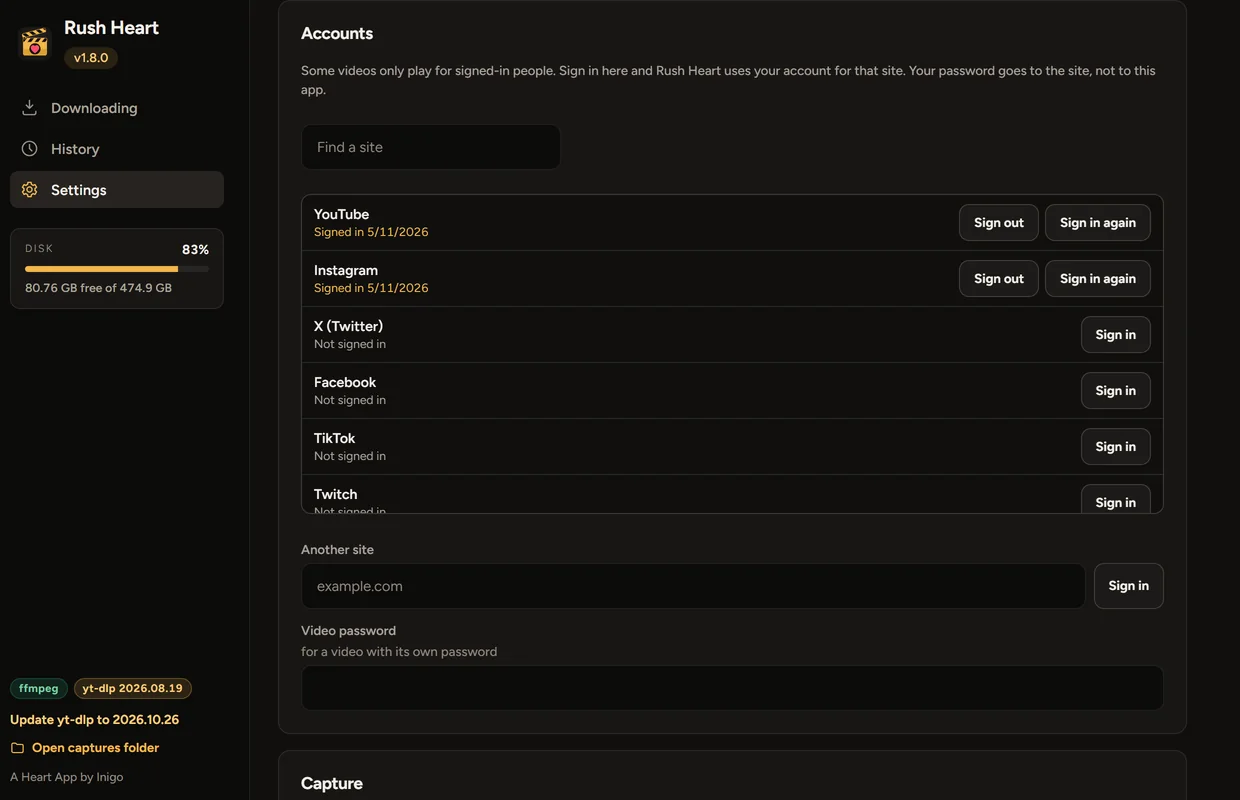
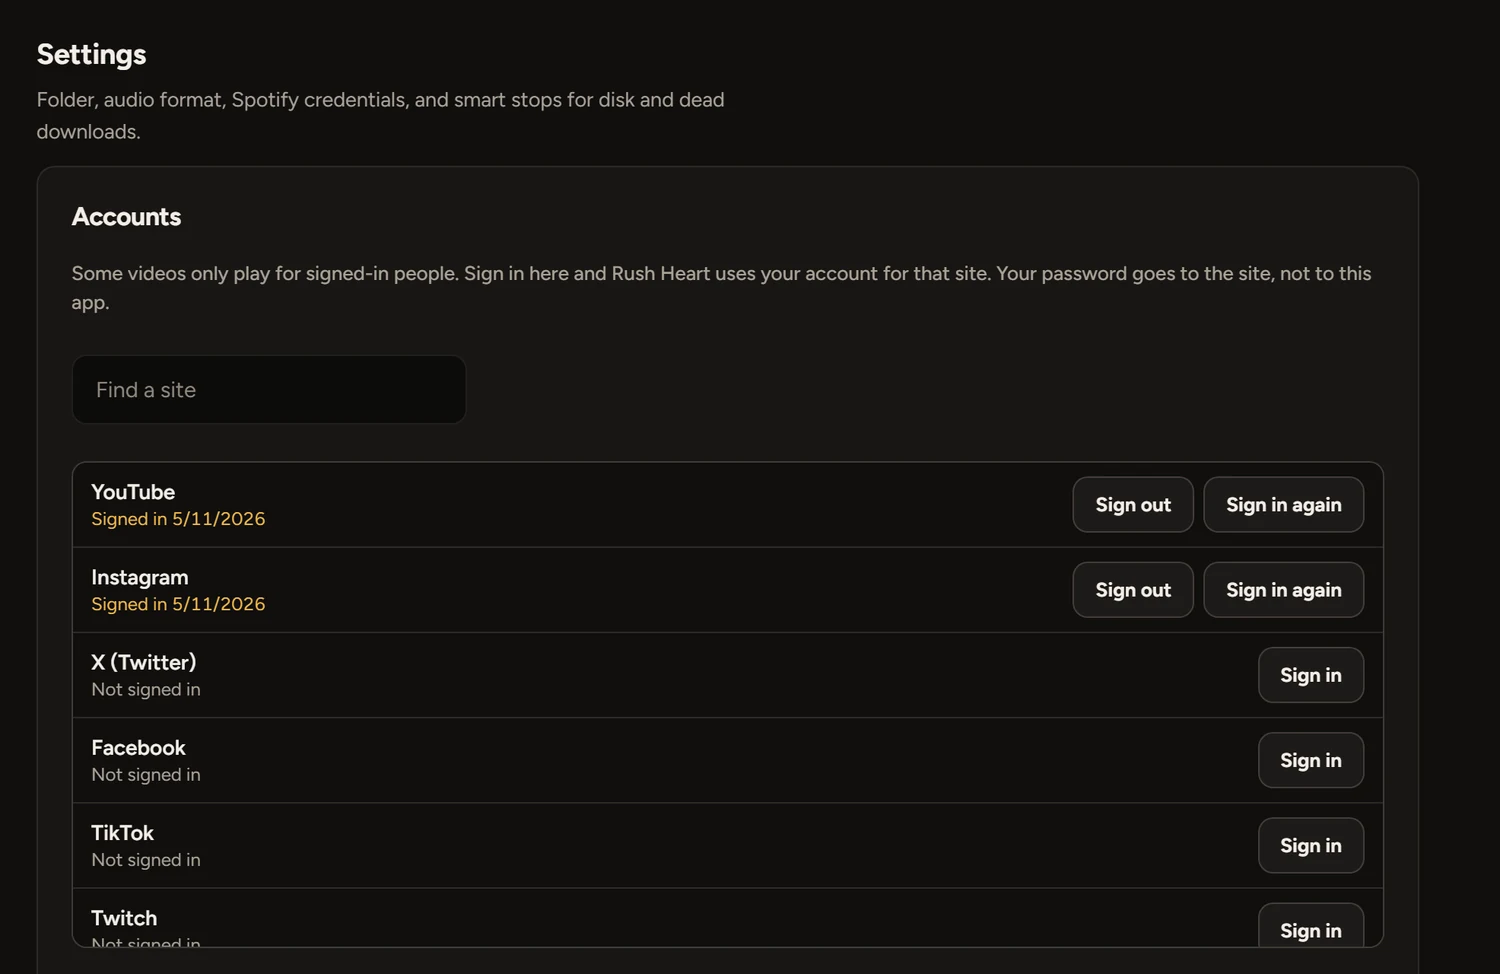
Larger pictures

diff --git a/index.html b/index.html
@@ -40,7 +40,8 @@
         <ul class="facts" data-reveal style="--i:3"><li>Free, no ads</li><li>Sign in from inside the app</li><li>Files stay on your computer</li></ul>
       </div>
     </div>
-    <figure class="hero-media"><div class="window" data-reveal style="--i:2"><img src="assets/rushes_history.webp" width="1240" height="800" alt="The Rush Heart history: finished downloads as cards, each with its picture, resolution and size."></div></figure>
+    <figure class="hero-media"><div class="window" data-reveal style="--i:2"><img src="assets/rushes_history-wide.webp" width="1860" height="1200" alt="The Rush Heart history: finished downloads as cards, each with its picture, resolution and size."></div></figure>
+    <div class="wall wall-4" data-reveal aria-hidden="true"><img src="assets/rush-1.webp" alt="" loading="lazy"><img src="assets/rush-2.webp" alt="" loading="lazy"><img src="assets/rush-3.webp" alt="" loading="lazy"><img src="assets/rush-4.webp" alt="" loading="lazy"></div>
   </section>
 
   <!-- Three things it does, one picture each -->
@@ -56,7 +57,7 @@
           <p data-reveal style="--i:1">Pick the quality, or take only the sound in the format you prefer, tagged with its title and cover.</p>
           <ul class="ticks" data-reveal style="--i:2"><li>Up to the best the site offers</li><li>MP3, FLAC, M4A, Opus or WAV</li><li>Playlists and subtitles</li></ul>
         </div>
-        <figure class="row-media"><div class="window" data-reveal><img src="assets/rushes_queue.webp" width="1240" height="800" alt="Rush Heart’s Downloading page with a link box and quality choices." loading="lazy"></div></figure>
+        <figure class="row-media"><div class="window" data-reveal><img src="assets/rushes_queue.webp" alt="Rush Heart’s Downloading page with a link box and quality choices." loading="lazy"></div></figure>
       </article>
 
       <article class="row" aria-labelledby="f2">
@@ -65,7 +66,7 @@
           <p data-reveal style="--i:1">Paste up to 50 links. Rush Heart works through them in a queue, with progress, speed and time left for each.</p>
           <ul class="ticks" data-reveal style="--i:2"><li>Start at a set time, once or daily</li><li>Stop after a set length</li><li>Show any file in its folder</li></ul>
         </div>
-        <figure class="row-media"><div class="window" data-reveal><img src="assets/rushes_history.webp" width="1240" height="800" alt="Finished downloads as cards with pictures, resolution and size." loading="lazy"></div></figure>
+        <figure class="row-media"><div class="window" data-reveal><img src="assets/rushes_history.webp" alt="Finished downloads as cards with pictures, resolution and size." loading="lazy"></div></figure>
       </article>
 
       <article class="row" aria-labelledby="f3">
@@ -74,7 +75,7 @@
           <p data-reveal style="--i:1">Some videos only play for signed-in people. Sign in from Settings and Rush Heart uses your account for that site.</p>
           <ul class="ticks" data-reveal style="--i:2"><li>The site’s own page opens in a window</li><li>A failed video offers Sign in, then retries by itself</li><li>Takes a video’s own password too</li></ul>
         </div>
-        <figure class="row-media"><div class="window" data-reveal><img src="assets/rushes_accounts.webp" width="1240" height="800" alt="The Accounts list in Rush Heart’s settings, with sites to sign in to." loading="lazy"></div></figure>
+        <figure class="row-media"><div class="window" data-reveal><img src="assets/rushes_accounts.webp" alt="The Accounts list in Rush Heart’s settings, with sites to sign in to." loading="lazy"></div></figure>
       </article>
     </div>
   </section>

diff --git a/theme.css b/theme.css
@@ -17,19 +17,26 @@
 .way-mark { display: grid; place-items: center; width: 48px; height: 48px; border-radius: 12px; background: var(--field-ink); color: var(--field); font-weight: 700; }
 
 /* The hero: the title across the page, the words and the window below it. */
-.hero { grid-template-columns: minmax(0, 4fr) minmax(0, 8fr); align-items: end; }
-.hero-text { gap: 40px; }
-.hero-side { display: grid; gap: 32px; max-width: 34rem; }
+.hero { grid-template-columns: minmax(0, 1fr); gap: clamp(2rem, 4vw, 3.5rem); }
+.hero-text { gap: clamp(1.5rem, 3vw, 2.5rem); }
+.hero-side { display: grid; gap: 22px 32px; }
 @media (min-width: 961px) {
-  .hero { grid-template-rows: auto auto; row-gap: 0; }
-  .hero-text { display: contents; }
-  .hero h1 { grid-column: 1 / -1; grid-row: 1; margin-bottom: clamp(1.5rem, 3vw, 2.5rem); }
-  .hero-side { grid-column: 1; grid-row: 2; align-self: start; padding-top: clamp(1rem, 3vw, 2.5rem); }
-  .hero-media { grid-column: 2; grid-row: 2; }
+  .hero-side { grid-template-columns: minmax(0, 6fr) minmax(0, 5fr); align-items: start; }
+  .hero-side .lede { max-width: 36ch; }
+  .hero-side .facts { grid-column: 1 / -1; }
 }
 .window { overflow: hidden; width: 100%; border-radius: 16px; background: var(--surface-2); box-shadow: 0 30px 80px rgba(0, 0, 0, 0.45); }
 .window img { display: block; width: 100%; height: auto; }
-.row-media { padding: clamp(1rem, 2.4vw, 2rem); }
+.row { grid-template-columns: minmax(0, 5fr) minmax(0, 7fr); }
+.row:nth-child(even) { grid-template-columns: minmax(0, 7fr) minmax(0, 5fr); }
+.row-media { display: block; padding: 0; background: none; }
+.row-media .compare { aspect-ratio: 3 / 2; }
+
+/* A wall of pictures */
+.wall { display: grid; gap: 10px; margin-top: clamp(1.5rem, 3vw, 2.5rem); }
+.wall-6 { grid-template-columns: repeat(6, minmax(0, 1fr)); }
+.wall-4 { grid-template-columns: repeat(4, minmax(0, 1fr)); }
+.wall img { display: block; width: 100%; height: auto; border-radius: 12px; }
 
 /* Sites that take an account, as a plain list */
 .import { display: grid; grid-template-columns: minmax(0, 5fr) minmax(0, 7fr); gap: var(--gap); }
@@ -61,8 +68,10 @@
 .doc-lede { font-size: var(--s-lede); color: var(--ink) !important; }
 
 @media (max-width: 960px) {
-  .hero { grid-template-columns: 1fr; }
+  .row, .row:nth-child(even) { grid-template-columns: minmax(0, 1fr); }
   .import { grid-template-columns: 1fr; gap: 32px; }
+  .wall-6 { grid-template-columns: repeat(3, minmax(0, 1fr)); }
+  .wall-4 { grid-template-columns: repeat(2, minmax(0, 1fr)); }
 }
 @media (max-width: 680px) {
   .sources { grid-template-columns: 1fr; }

diff --git a/README.md b/README.md
@@ -1,5 +1,7 @@
 # Rush Heart
 
+![Rush Heart showing finished downloads as cards](https://inigo-code.github.io/rush-heart-site/assets/rushes_history-wide.webp)
+
 Website and downloads for Rush Heart, one of the [Heart Apps](https://inigo-code.github.io/). Download the app from [Releases](../../releases/latest).
 
 The site is plain HTML and CSS, served by GitHub Pages. heart.css and heart.js are the shared Heart Apps files. The apps are free, all rights reserved.
